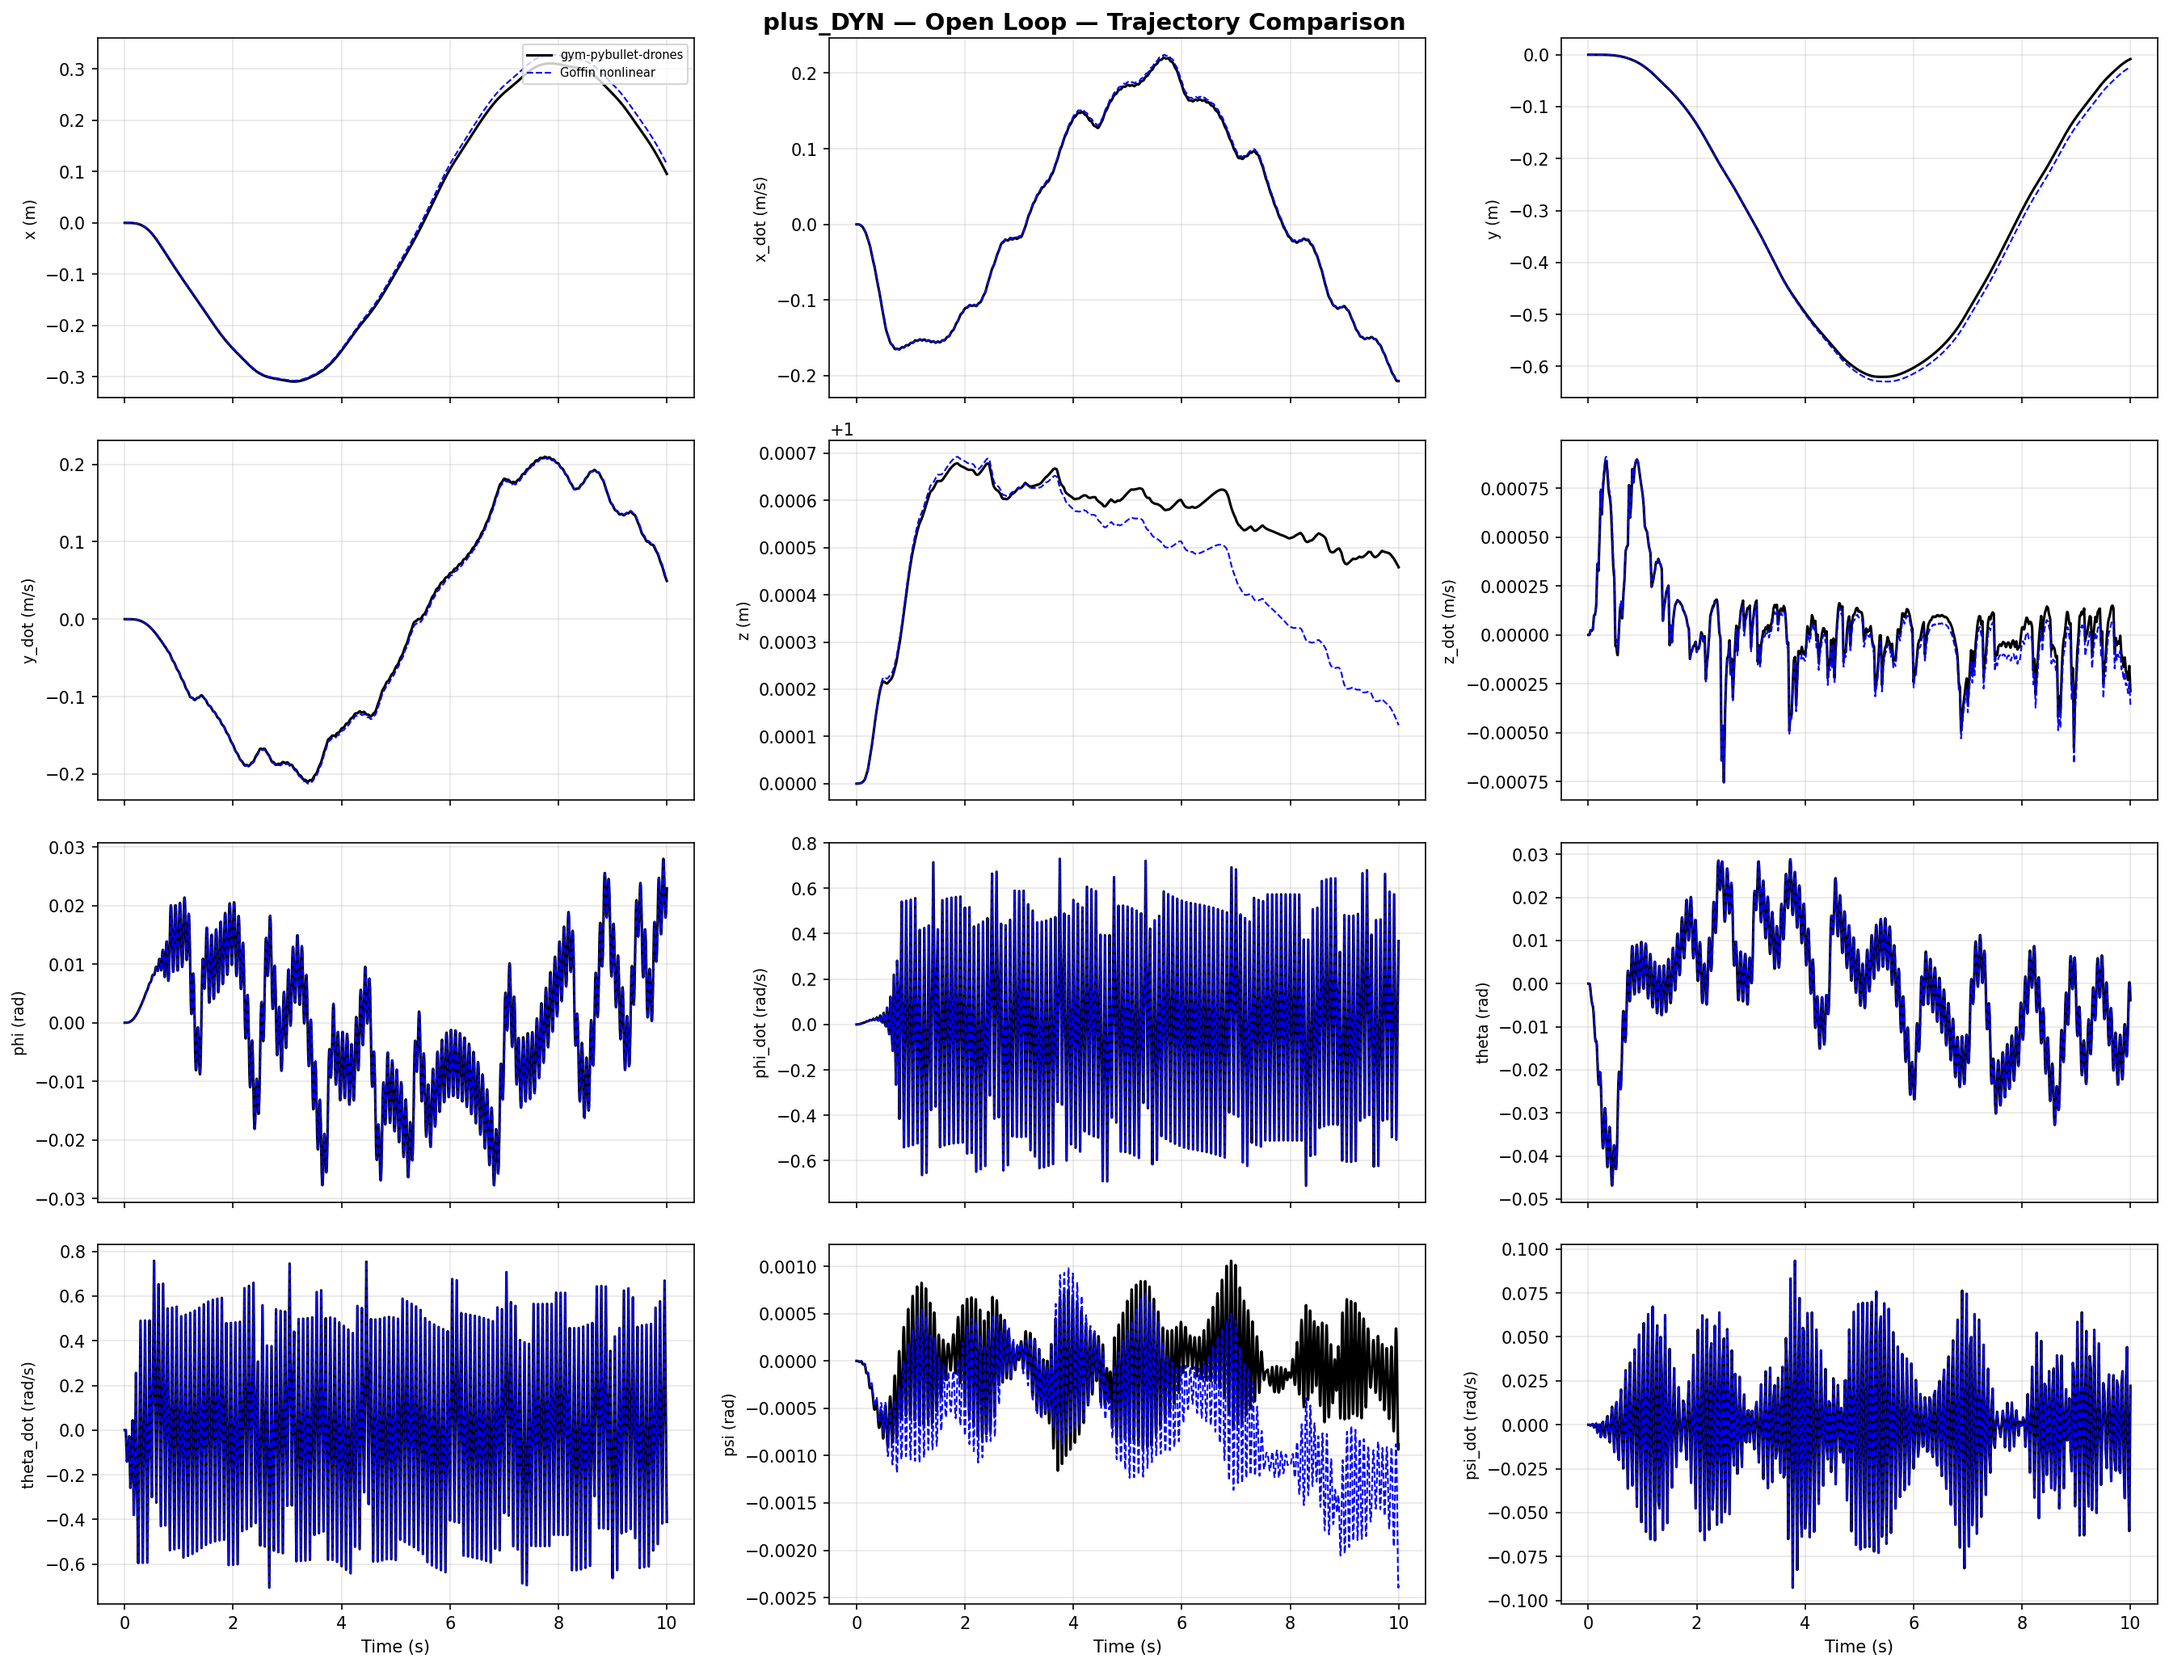
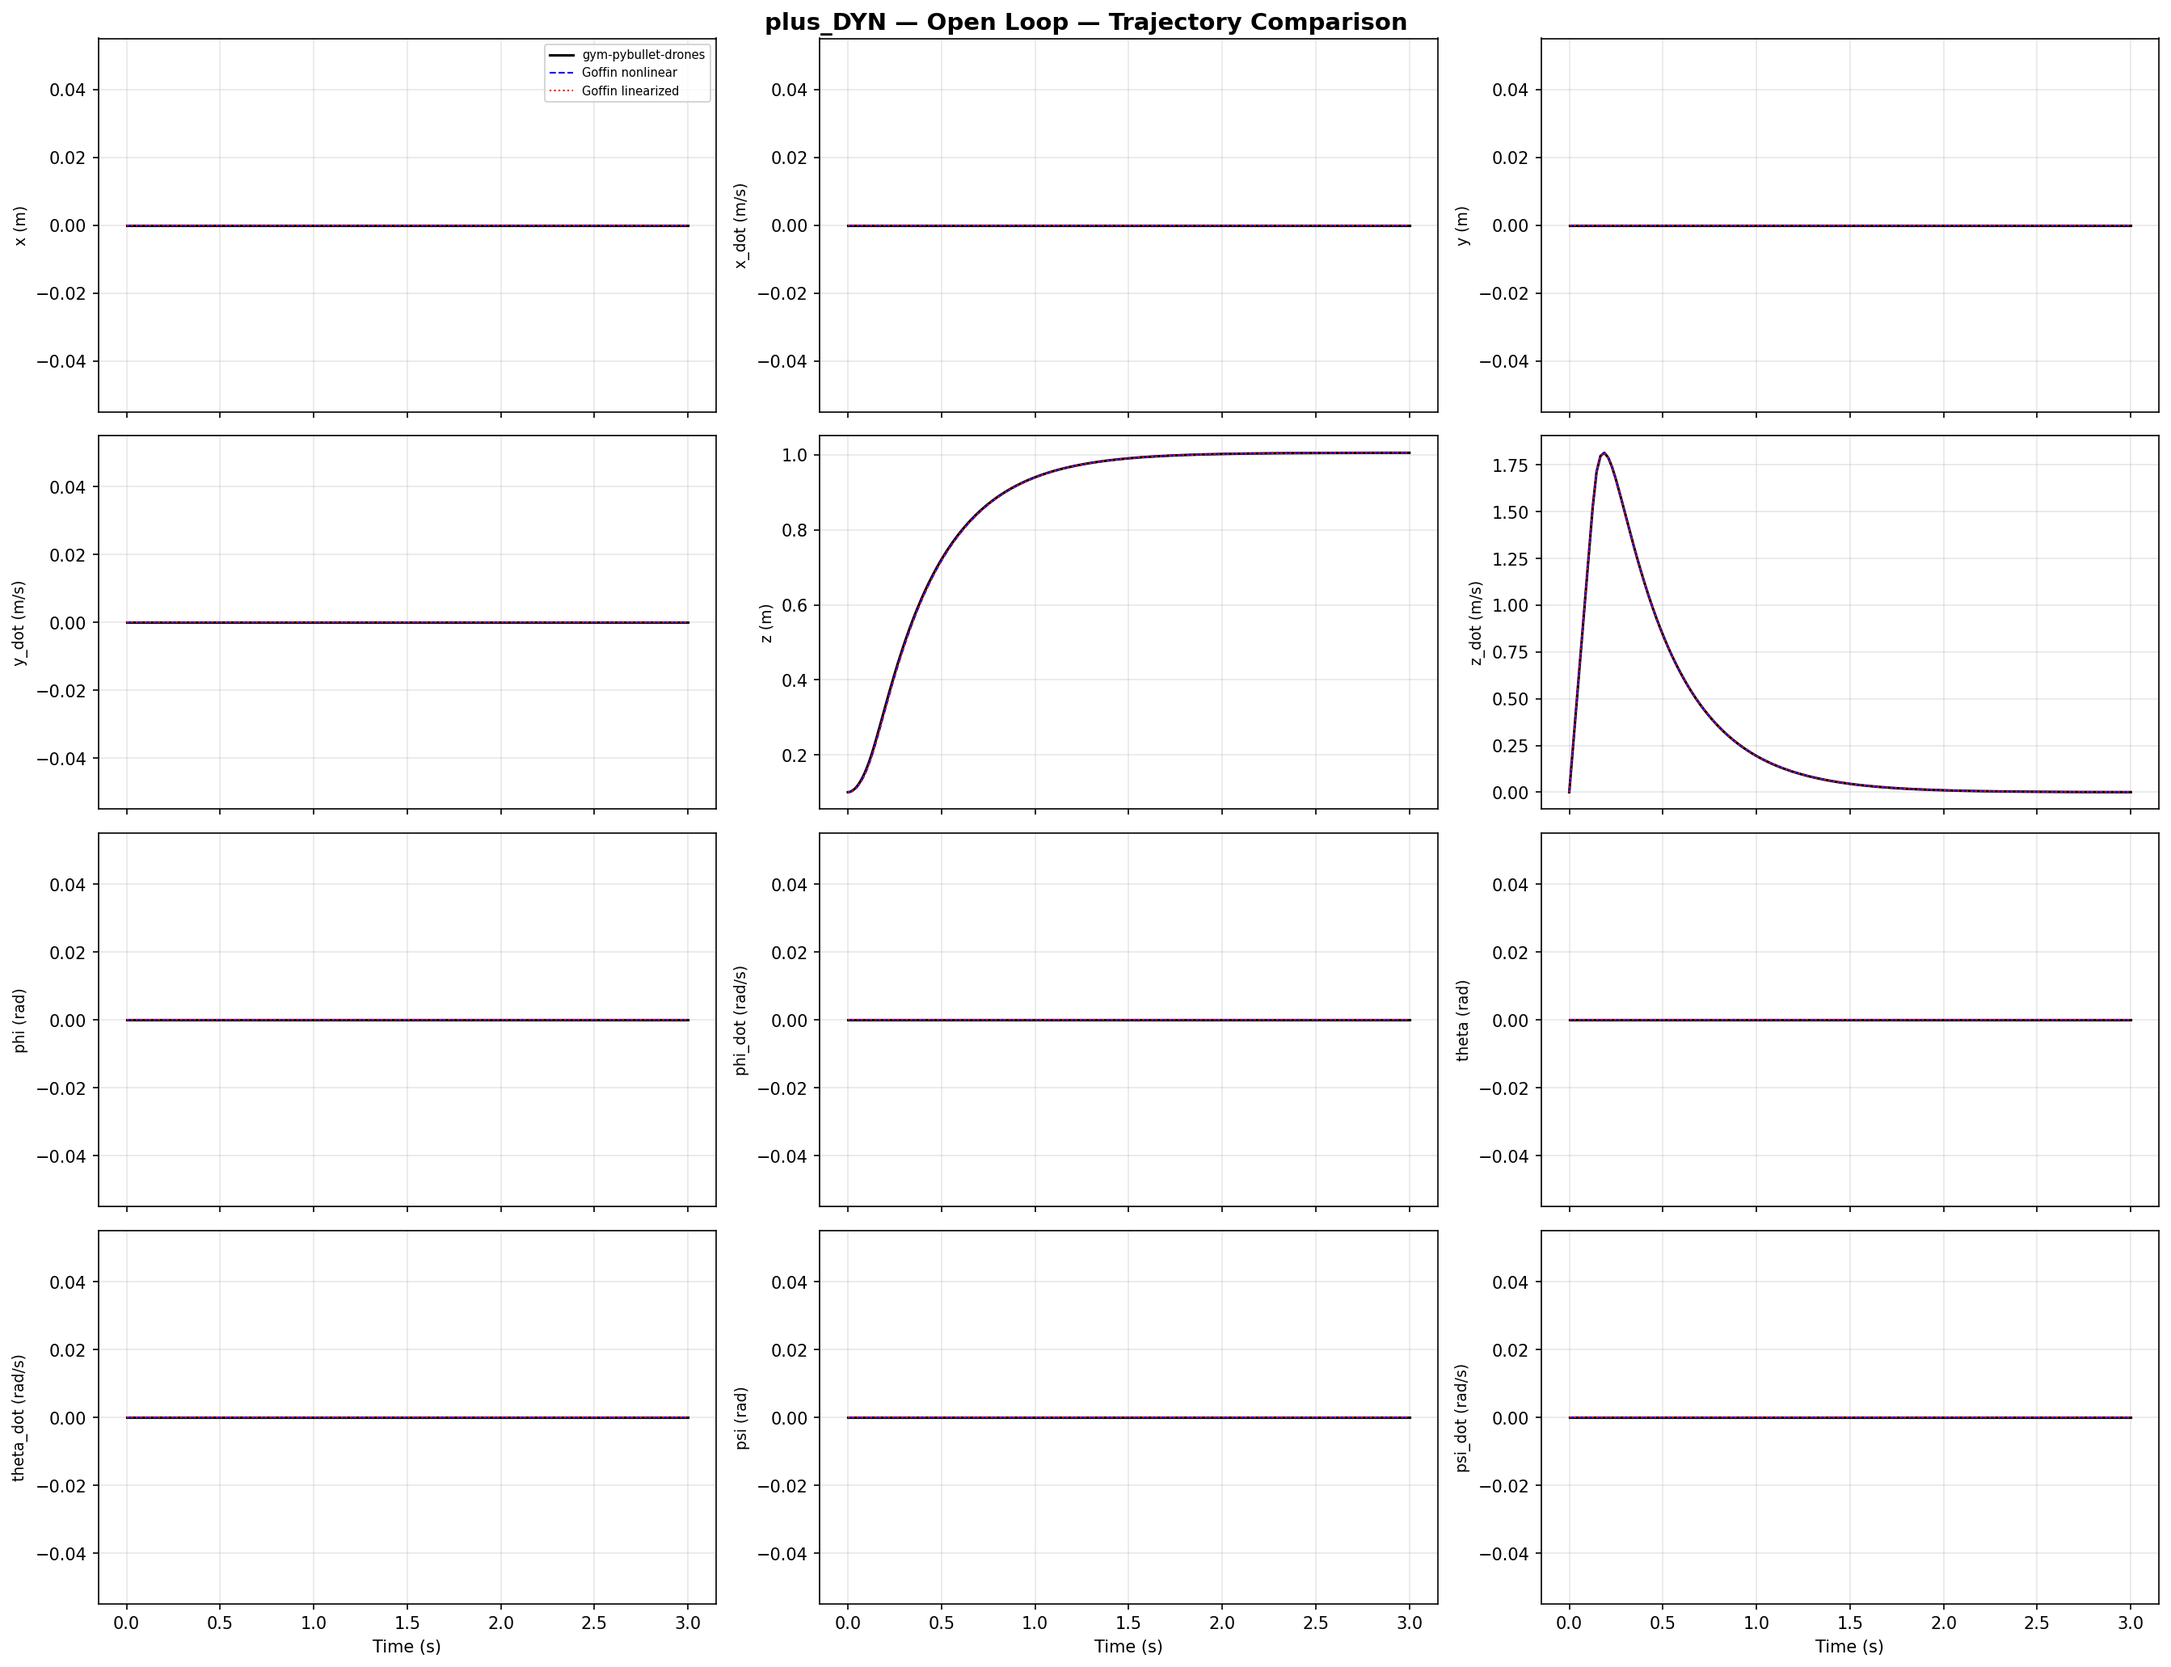
Revert "removed body to euler conversion"
This reverts commit 87c9f1dcfed6cd0172b376fb9f7d07bbb9c5e2a5.

diff --git a/goffin_dynamics.py b/goffin_dynamics.py
@@ -292,21 +292,21 @@ def gym_state_to_goffin(pos, rpy, vel, ang_v):
     omega_body = R.T @ ang_v  # [p, q, r]
 
     # Body rates -> Euler rates
-    #if np.abs(c_theta) > 1e-8:
-    #    t_theta = s_theta / c_theta
-    #    phi_dot   = omega_body[0] + s_phi * t_theta * omega_body[1] + c_phi * t_theta * omega_body[2]
-    #    theta_dot = c_phi * omega_body[1] - s_phi * omega_body[2]
-    #    psi_dot   = (s_phi / c_theta) * omega_body[1] + (c_phi / c_theta) * omega_body[2]
-    #else:
-    #    phi_dot, theta_dot, psi_dot = omega_body
+    if np.abs(c_theta) > 1e-8:
+        t_theta = s_theta / c_theta
+        phi_dot   = omega_body[0] + s_phi * t_theta * omega_body[1] + c_phi * t_theta * omega_body[2]
+        theta_dot = c_phi * omega_body[1] - s_phi * omega_body[2]
+        psi_dot   = (s_phi / c_theta) * omega_body[1] + (c_phi / c_theta) * omega_body[2]
+    else:
+        phi_dot, theta_dot, psi_dot = omega_body
 
     return np.array([
         pos[0], vel[0],
         pos[1], vel[1],
         pos[2], vel[2],
-        phi,    omega_body[0],
-        theta,  omega_body[1],
-        psi,    omega_body[2]
+        phi,    phi_dot,
+        theta,  theta_dot,
+        psi,    psi_dot
     ])
 
 
